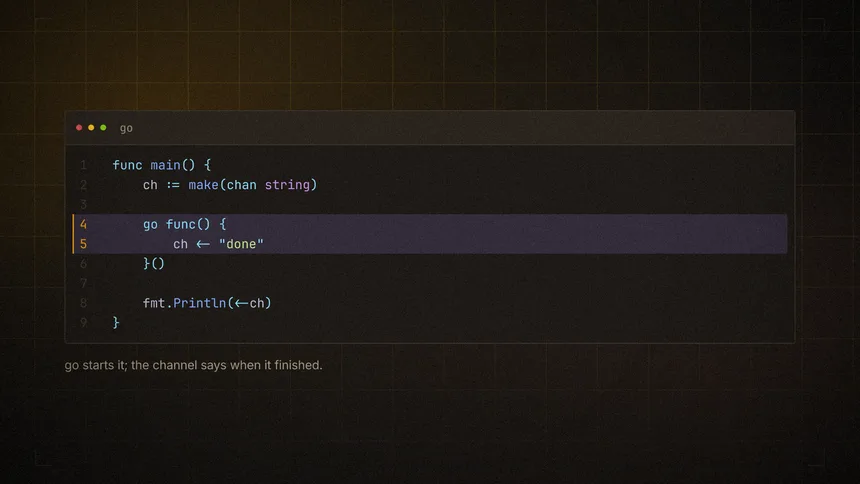
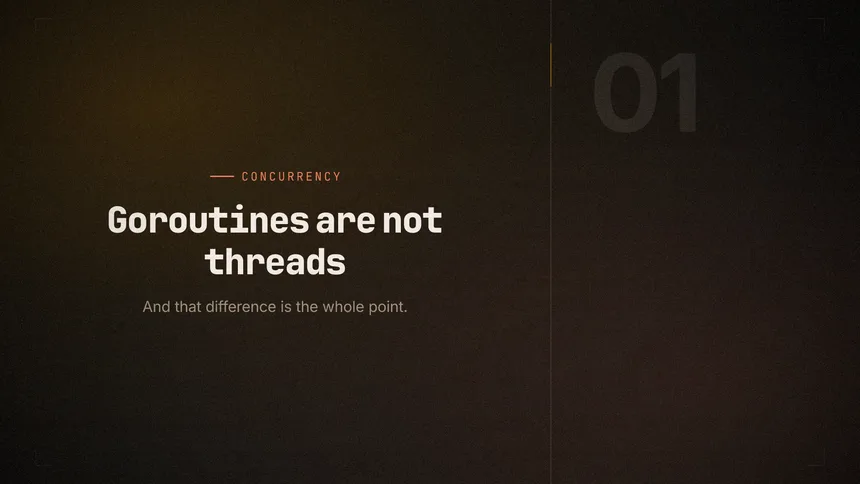
Make the taste comparison actually show a difference
The three-up that carries the central claim — swap the taste, same script,
different film — was demonstrating nothing. All three frames were a code
window, which is mostly syntax colours inside a panel that covers the ground,
so the one thing a taste profile changes was the one thing not visible. Worse,
two of the three profiles were warm near-blacks a hair apart: dusk sits at
#12100e and the derived profile at #130905. Side by side they read as the same
picture rendered three times.

The shot is now a title — display face, the accent on the kicker, text and
muted against the lit ground, which is where a palette actually shows — and
the derived profile is seeded from a cool hue so the row spans violet, sand
and teal rather than warm, warm and warm.

Found by building a contact sheet of every published asset and looking at them
together. Individually each one was fine.

Claude-Session: https://claude.ai/code/session_01NyKz2GfFfyySnKmy4hCHHB

diff --git a/tools/gallery.ts b/tools/gallery.ts
@@ -115,9 +115,16 @@ if (!only || only === 'camera') {
 // ── the same scene under three tastes ──────────────────────────────────────
 if (!only || only === 'tastes') {
   console.log('\n\x1b[2m  tastes — the same scene, three profiles\x1b[0m');
-  const scene = [{ block: 'code', lang: 'go', code: GO, highlight: [4, 5],
-    caption: 'go starts it; the channel says when it finished.' }];
-  const { taste: derived } = derive({ id: 'hersie', name: 'Derived', brand: '#ff7a18', mode: 'dark', mood: 'bouncy', texture: 'film' });
+  // A code window is the worst possible scene for this comparison: it is mostly
+  // syntax colours, which barely move between tastes, inside a panel that hides
+  // the ground. A title shows what actually changes — display face, the accent
+  // on the kicker, text and muted against the lit background.
+  const scene = [{ block: 'title', kicker: 'concurrency',
+    text: 'Goroutines are not threads',
+    sub: 'And that difference is the whole point.' }];
+  // a cool hue, because the two warm profiles below are close enough on their
+  // own grounds that a third warm one would demonstrate nothing
+  const { taste: derived } = derive({ id: 'derived', name: 'Derived', brand: '#22d3ee', mode: 'dark', mood: 'bouncy', texture: 'film' });
   for (const [name, taste] of [['taste-bootdev', THEMES.bootdev], ['taste-dusk', THEMES.dusk], ['taste-hersie', derived]] as const) {
     await shot({ name, scenes: scene, taste, w: 1920, h: 1080, outW: 860, outH: 484, at: 0.95 });
   }
